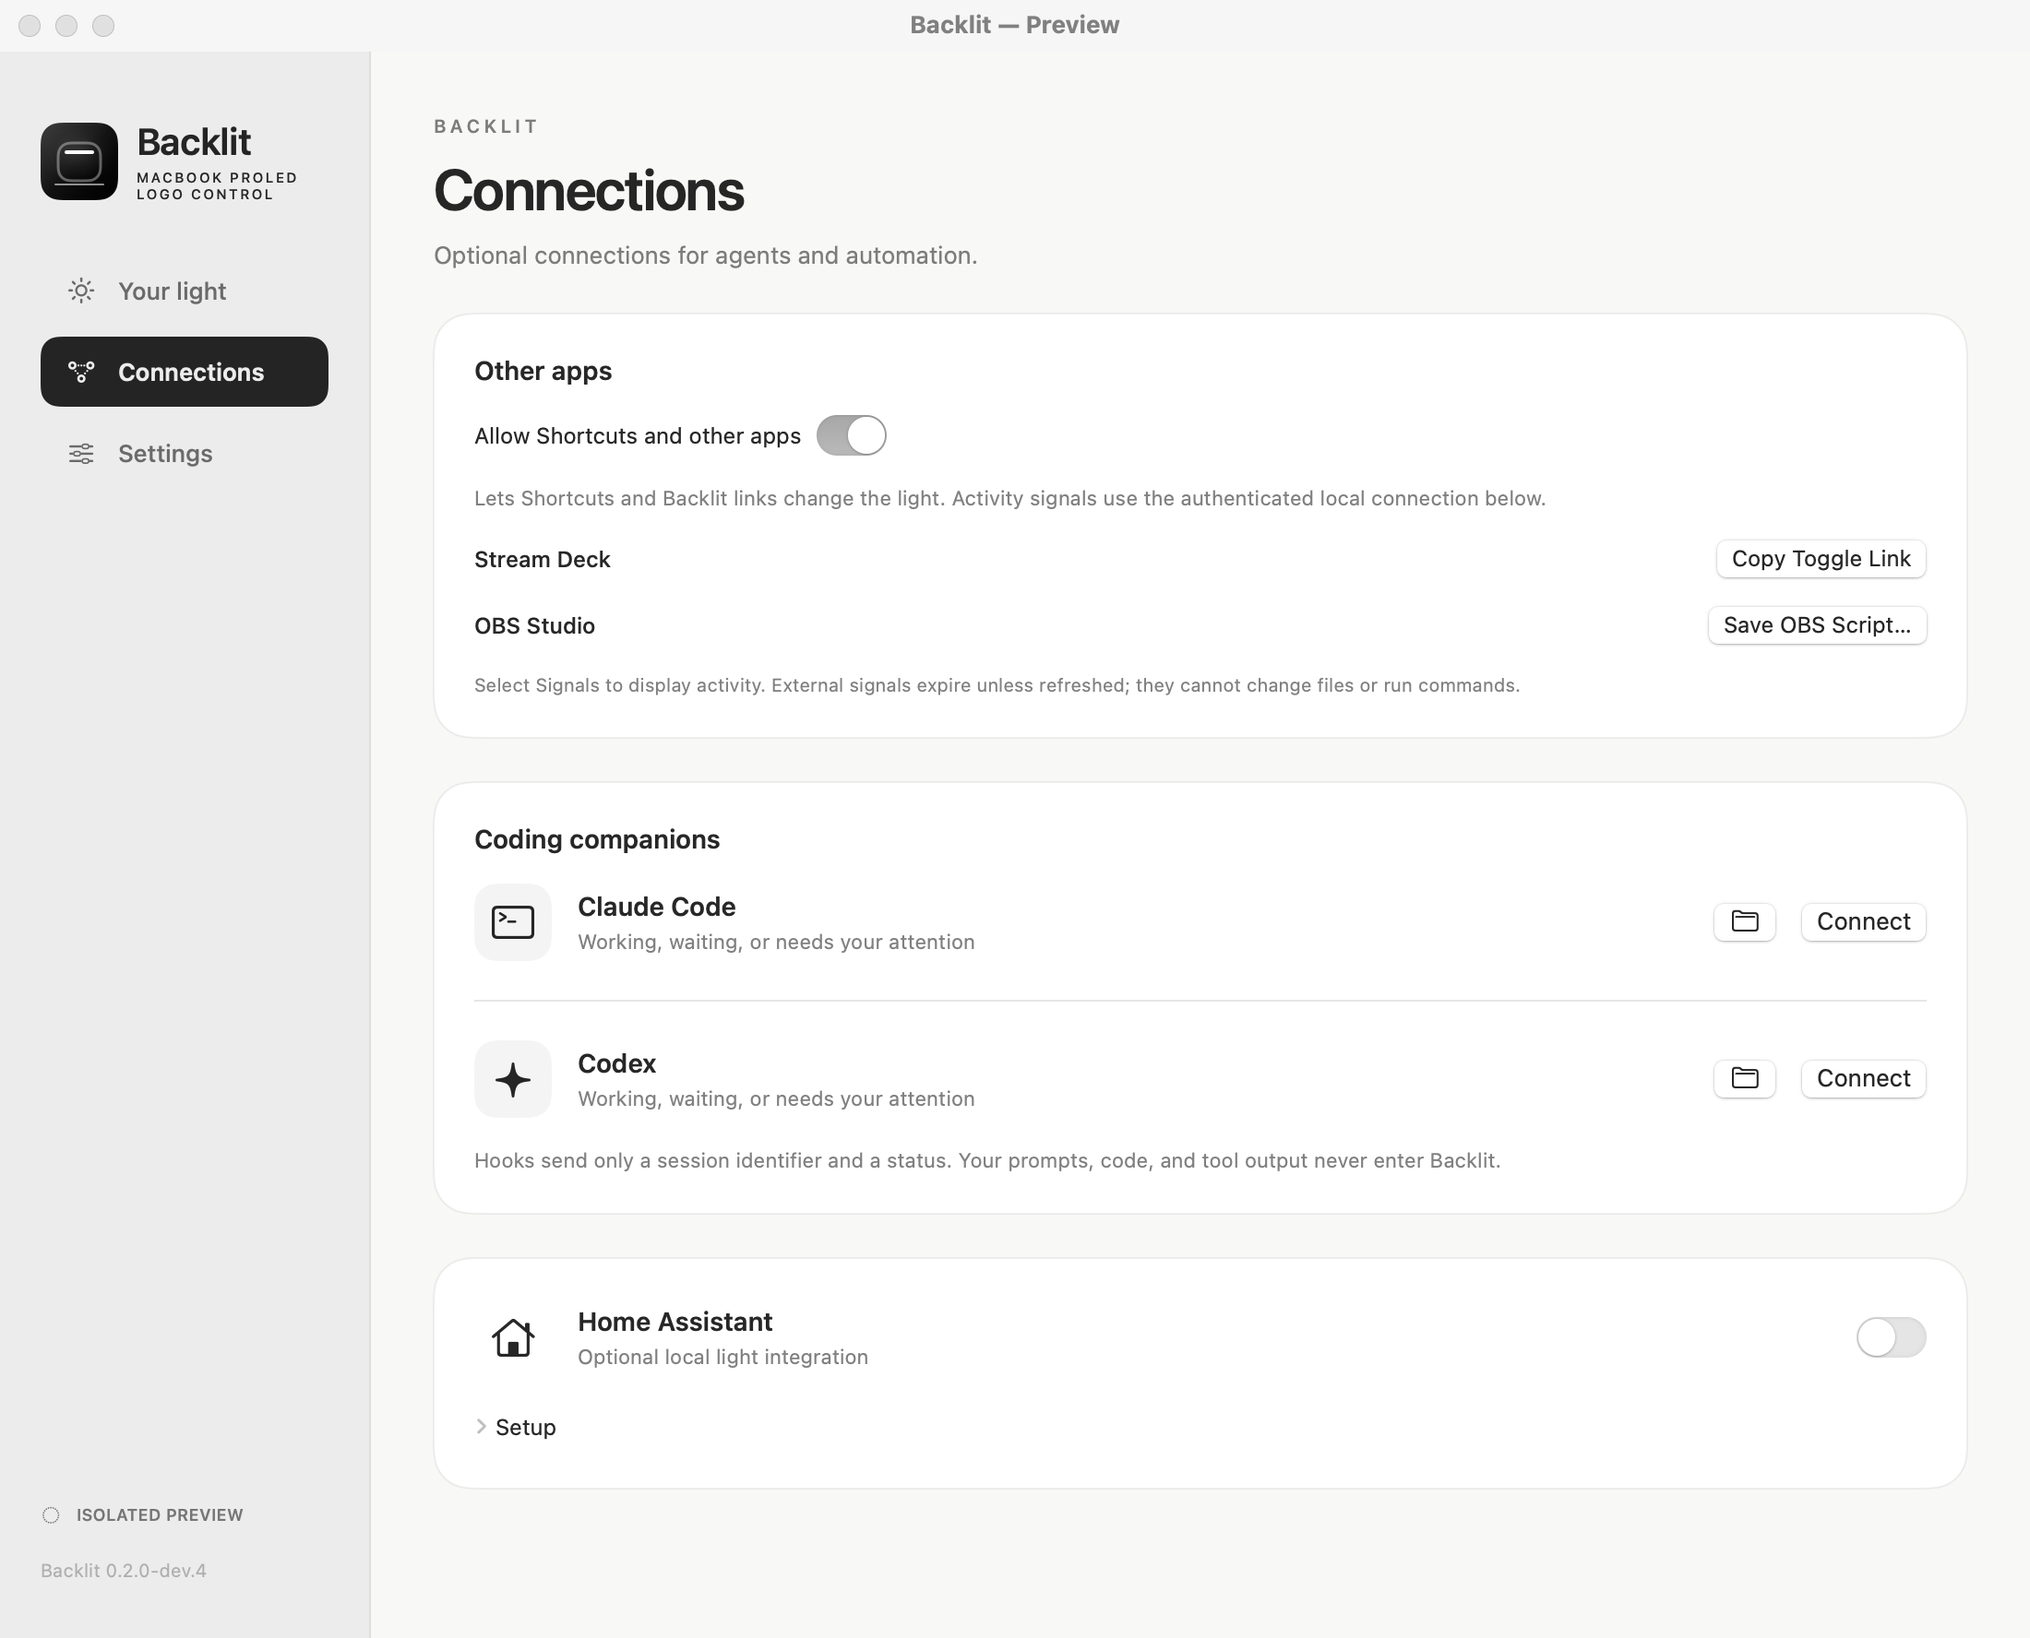
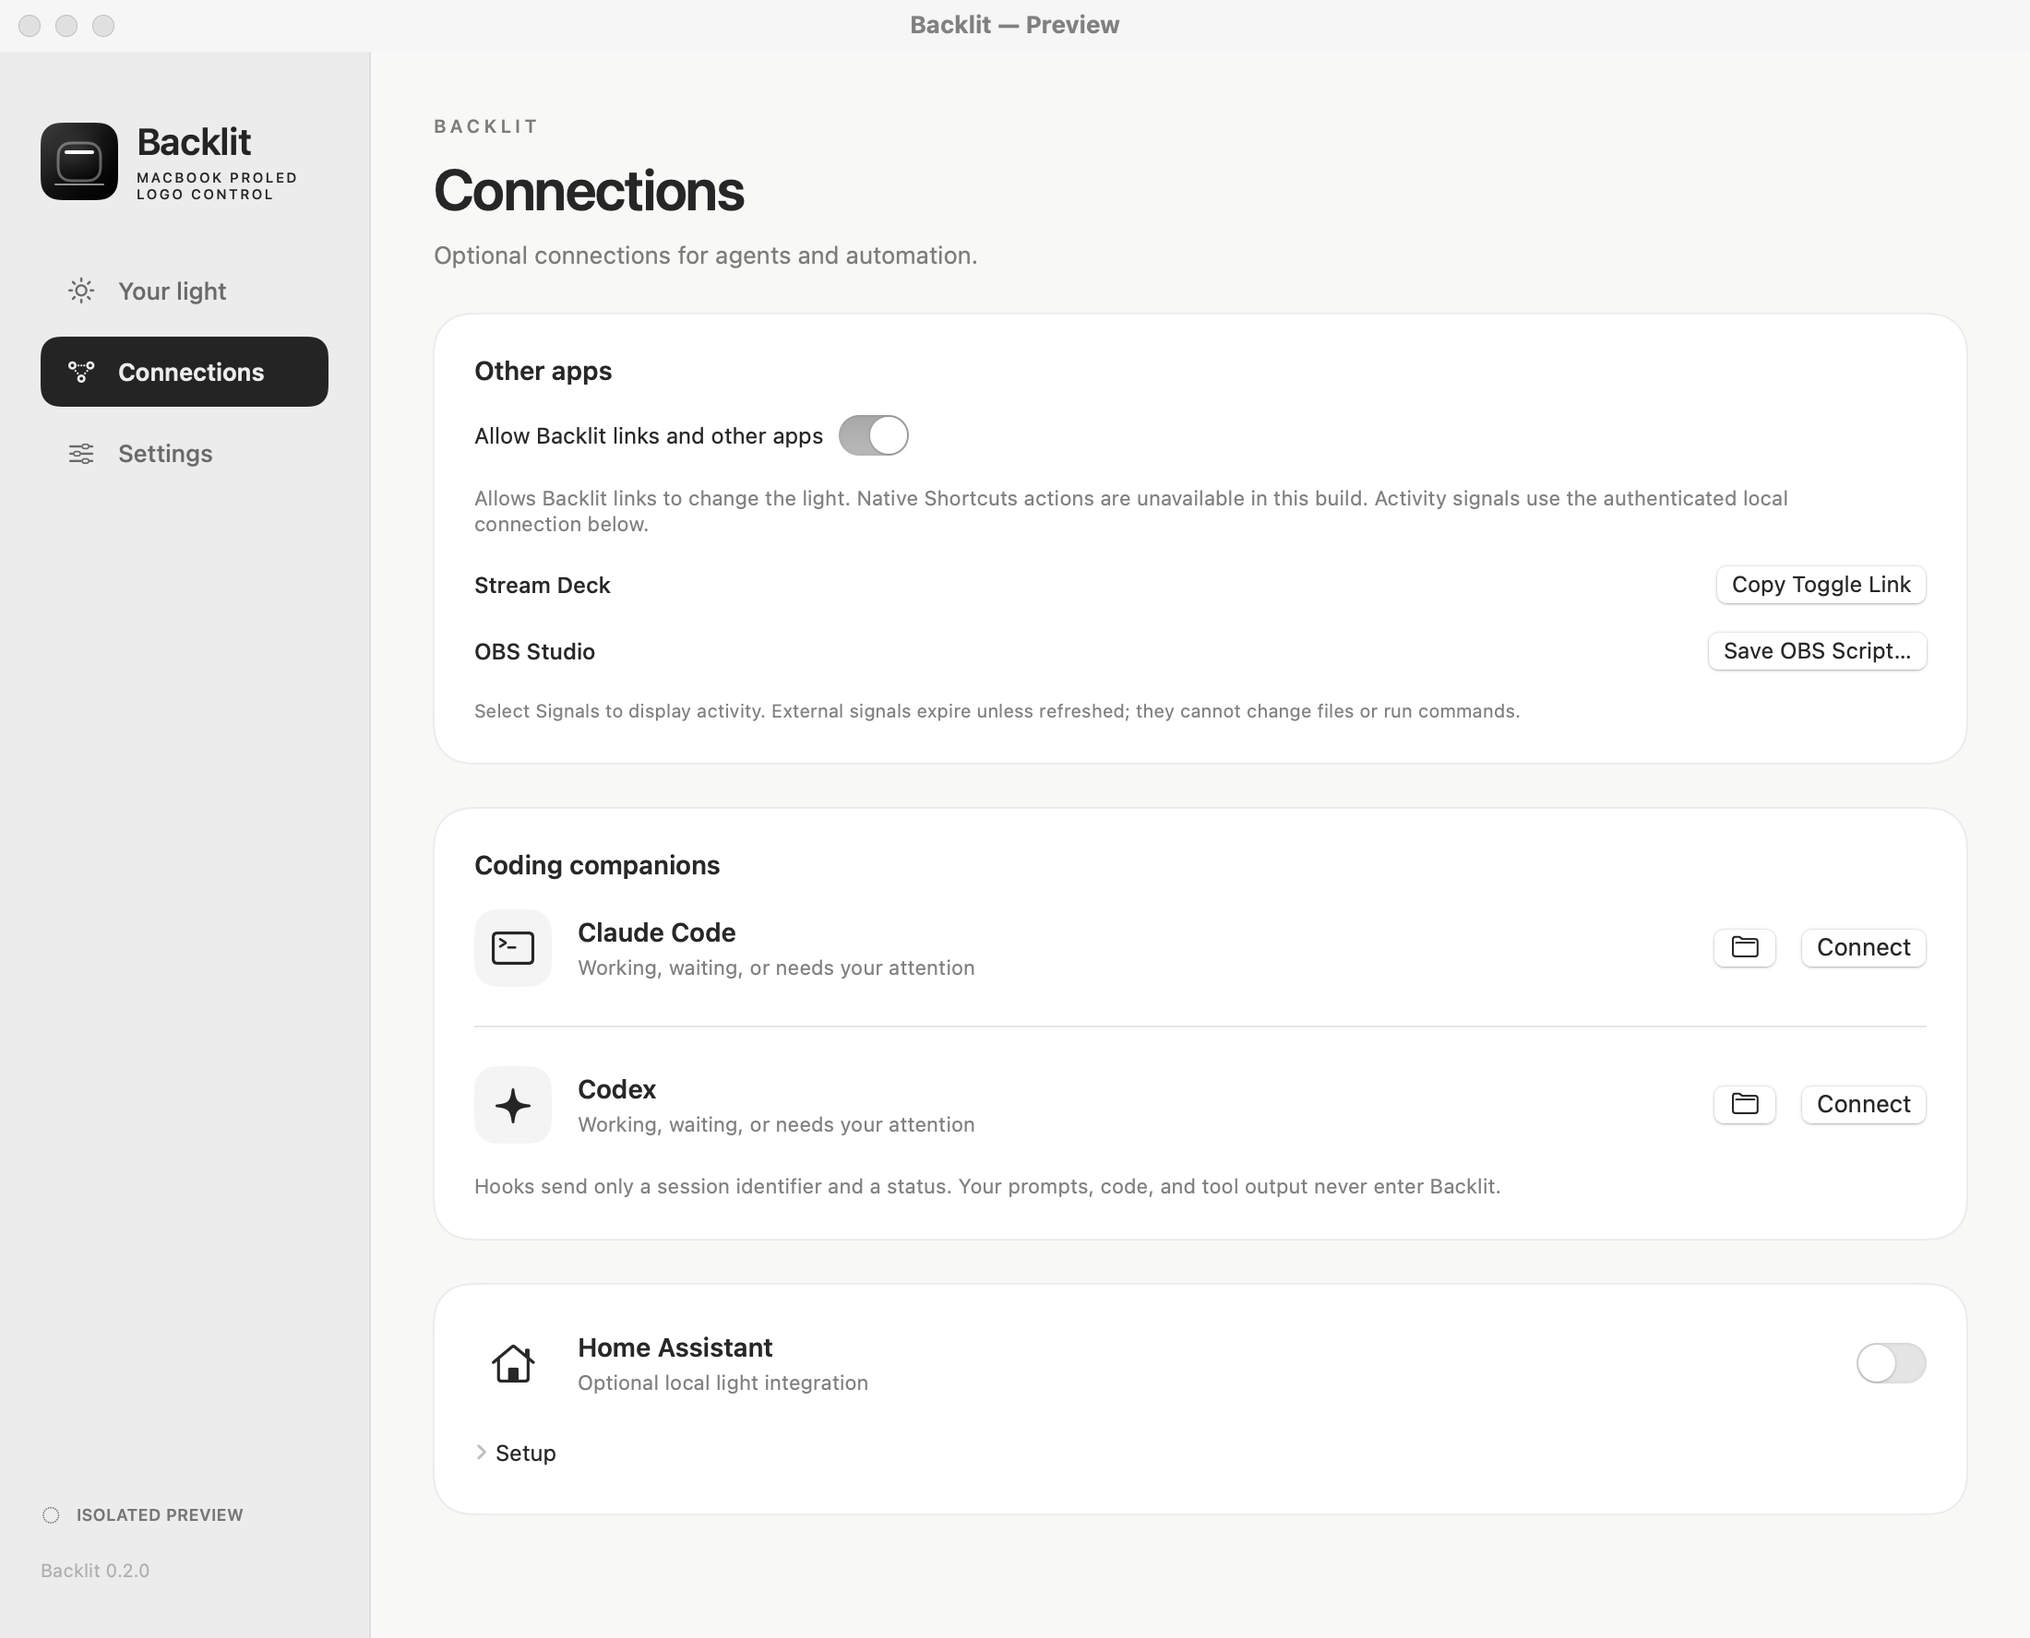
Release Backlit 0.2.0 with refreshed native screenshots

diff --git a/Sources/Backlit/FeatureControls.swift b/Sources/Backlit/FeatureControls.swift
@@ -47,8 +47,8 @@ struct AutomationConnections: View {
     @ObservedObject var model: AppModel
     var body: some View {
         Surface("Other apps") {
-            Toggle("Allow Shortcuts and other apps", isOn: $model.automationsEnabled).toggleStyle(.switch)
-            Text("Lets Shortcuts and Backlit links change the light. Activity signals use the authenticated local connection below.").font(.system(size: 11)).foregroundStyle(.secondary)
+            Toggle("Allow Backlit links and other apps", isOn: $model.automationsEnabled).toggleStyle(.switch)
+            Text("Allows Backlit links to change the light. Native Shortcuts actions are unavailable in this build. Activity signals use the authenticated local connection below.").font(.system(size: 11)).foregroundStyle(.secondary)
             if model.automationsEnabled {
                 HStack {
                     Text("Stream Deck").fontWeight(.medium)

diff --git a/README.md b/README.md
@@ -1,10 +1,8 @@
-Development checkout: **0.2.0-dev.4** (local testing build). Public downloads below remain the published release.
-
 <p align="center"><img src="docs/media/icon.png" width="96" alt="Backlit icon"></p>
 <h1 align="center">Backlit</h1>
 <p align="center">MacBook PROLED logo light control for macOS.</p>
 <p align="center">
-<img src="https://img.shields.io/badge/source-0.2.0--dev.4-9a7400?style=flat" alt="Source 0.2.0-dev.4">
+<img src="https://img.shields.io/badge/source-0.2.0-9a7400?style=flat" alt="Source 0.2.0">
 <img src="https://img.shields.io/badge/local_tests-226_passing-2d6085?style=flat" alt="226 local tests passing">
 <img src="https://img.shields.io/badge/local_build-verified-55565f?style=flat" alt="Local build verified">
 <img src="https://img.shields.io/badge/macOS-14.0_target-55565f?style=flat" alt="macOS 14.0 target">
@@ -58,7 +56,7 @@ Launch connects compatible hardware automatically. Quit restores the previous lo
 
 Claude Code and Codex have separate, reversible status hooks. Existing hooks are preserved. They send a session identifier and status—not prompts, code, or tool output. Codex requires hook review/trust in its settings. Codex live-session compatibility remains unverified.
 
-Opt-in local automation links, a separately packaged Stream Deck plugin, and an OBS script are included. Activity signals cover build, export, backup, focus, recording, and streaming. They are experimental: real Stream Deck/OBS operation and native Shortcuts discovery have not passed acceptance testing. The five native Shortcuts actions are not discoverable in the current ad-hoc signing setup; extracted metadata alone does not establish availability.
+Opt-in local automation links, a separately packaged Stream Deck plugin, and an OBS script are included. Activity signals cover build, export, backup, focus, recording, and streaming. Stream Deck and OBS are experimental; real key/profile and recording/streaming acceptance remain unverified. Native Shortcuts actions are unavailable in this ad-hoc signed build. Extracted action metadata does not establish discovery.
 
 <details>
 <summary>Other apps screenshot</summary>
@@ -88,7 +86,7 @@ An optional [Home Assistant integration](docs/HOME-ASSISTANT.md) exposes a light
 
 ## Install
 
-Download the Apple silicon ZIP or DMG from [Releases](https://github.com/t0nyz0/Backlit/releases). Quit any running Backlit, then put the new app in **Applications**. This early release is **ad-hoc signed, not Developer ID signed or notarized**.
+Download the Apple silicon ZIP or DMG from [Releases](https://github.com/t0nyz0/Backlit/releases). Quit any running Backlit, then put the new app in **Applications**. Backlit 0.2.0 is **ad-hoc signed, not Developer ID signed or notarized**.
 
 A physically illuminated, independently controlled logo is required. The macOS 14 deployment target is not a claim that every older Mac/OS is supported. Unsupported hardware can use preview mode.
 
@@ -98,7 +96,7 @@ Optional login launch, closed-lid operation, and an administrator-authorized bri
 
 ## Updates
 
-The in-app updater uses Sparkle, but is **disabled in this development build** because a publisher trust key and signed feed have not been provisioned. It does not fall back to installing unsigned GitHub downloads. Existing published versions need a trusted manual installation to acquire the updater and its public trust key. Authentic update installation, interruption recovery, and rollback have not been tested end to end. Same-source SHA-256 checksums detect changed bytes; they do not prove publisher identity.
+Download updates from [GitHub Releases](https://github.com/t0nyz0/Backlit/releases) and replace the app manually. In-app updates are **disabled in 0.2.0** because a publisher trust key and signed feed have not been provisioned. There is no fallback to unsigned downloads. SHA-256 checksums detect changed bytes; they do not prove publisher identity. See [validation](docs/VALIDATION.md) for the updater test scope.
 
 ## Build
 
@@ -116,7 +114,7 @@ The local installer gracefully quits, replaces, and reopens `/Applications/Backl
 open -n dist/Backlit.app --args --preview
 ```
 
-The [GitHub Actions workflow](https://github.com/t0nyz0/Backlit/actions) defines tests, privacy/secret checks, and an optimized build. **This development candidate has been checked locally; its exact commit has not run in remote CI.** The release workflow packages ZIP, DMG, clean source, build metadata, and SHA-256 checksums when an authorized version tag is published. [Contributing](CONTRIBUTING.md) covers packaging and Home Assistant tests.
+The [GitHub Actions workflow](https://github.com/t0nyz0/Backlit/actions) runs tests, privacy/secret checks, and an optimized build. Release publication requires that workflow to pass for the exact version tag. It packages ZIP, DMG, clean source, the separate Stream Deck add-on, build metadata, and SHA-256 checksums. Check the tagged workflow run for its commit and results. [Contributing](CONTRIBUTING.md) covers packaging and Home Assistant tests.
 
 [Privacy](docs/PRIVACY.md) · [Validation](docs/VALIDATION.md) · [Security](SECURITY.md) · [Attribution](docs/ATTRIBUTION.md)
 

diff --git a/docs/VALIDATION.md b/docs/VALIDATION.md
@@ -1,6 +1,6 @@
 # Backlit validation
 
-Candidate: **0.2.0-dev.4**, build 24. Local development build; not published. The exact candidate has not run in remote GitHub Actions. Artifact source identity and signing status are recorded in BUILD-INFO.json; SHA256SUMS.txt covers package bytes.
+Version: **0.2.0**, build 25. Publication requires a passing [Build and package workflow](https://github.com/t0nyz0/Backlit/actions) for the exact `v0.2.0` tag. Check that run for its commit and results. BUILD-INFO.json records artifact source identity and signing status; SHA256SUMS.txt covers package bytes.
 
 ## Executed local checks
 
@@ -9,7 +9,7 @@ Candidate: **0.2.0-dev.4**, build 24. Local development build; not published. Th
 - 14 Stream Deck tests cover command/settings validation, bounded ordering and failure recovery, inspector context/persistence, and package freshness. Typecheck/schema/license checks and dependency audit also pass locally.
 - Optimized arm64 build, five-action AppIntents metadata extraction, nested framework/helper code-signature verification, source exclusions, artifact hashes/ZIP CRCs/DMG, documentation/media integrity and privacy/secret scans are checked locally.
 
-Battery tests use saved manual levels of 0%, 25%, 50%, and other values; every unplugged percentage including zero is tested. Default/migrated preferences, active/full/paused/unplugged transitions, optional styles/cues, mode switching and preserved manual settings are covered. The original multiplier-based expectation was wrong and has been replaced. Native UI review must confirm the workspace and menu show output without a Battery manual slider.
+Battery tests use saved manual levels of 0%, 25%, 50%, and other values; every unplugged percentage including zero is tested. Default/migrated preferences, active/full/paused/unplugged transitions, optional styles/cues, mode switching and preserved manual settings are covered. The corrected tests exercise the production model, rather than treating a manual-brightness multiplier as the expected result. Native captures show the workspace and menu output without a Battery manual slider.
 
 Battery pulse-floor tests cover arbitrary 20 Hz phases, delayed timestamps and cycle crossing. The floor is delivered on the next available frame and the pulse restarts smoothly; this cannot make a stalled process produce timely physical frames. Explicit zero writes bypass near-zero coalescing. Optical darkness and timing still need device observation. Menu visibility preference, repeated item lifecycles and asynchronous closed-lid cleanup/recovery are covered by isolated fixtures.
 
@@ -24,7 +24,7 @@ Screenshots are captured from current native views in isolated preview; they ill
 | Battery | Automated/model tests do not establish natural full-charge optical behavior on every device. Hardware reads and preview values are not optical measurements. |
 | Music | Playback devices, protected audio, perceived latency and sustained whole-app resource use still need live acceptance. No performance guarantee. |
 | Typing | Input Monitoring, Secure Input, sleep/lock/user-switch handling need live acceptance. No permission bypass. |
-| Shortcuts | Five actions extract, but native discovery is blocked in the ad-hoc signing setup. Metadata extraction is not a discovery pass. |
+| Shortcuts | Native actions are unavailable in this ad-hoc signed build. Five actions extract as metadata, which is not a discovery pass. |
 | Stream Deck / OBS | Fixture/plugin packaging tests pass; actual key/profile, OBS script and recording/streaming operation remain unverified. |
 | Home Assistant / agents | Local fixtures pass; existing installation/LAN policy and live Codex compatibility remain separate checks. |
 | Updater | Trust key/feed missing, so disabled. A disposable two-version host passed a signed upgrade/relaunch and rejected a modified signed feed. Its routes used fixture-only localhost overrides and synthetic restoration. Production transport/signing, resumed/interrupted updates, cancellation acknowledgement and failure rollback/relaunch remain unverified. |

diff --git a/docs/RELEASE.md b/docs/RELEASE.md
@@ -1,9 +1,11 @@
-Backlit 0.2.0 development candidate for MacBook PROLED. Not a published release.
+Backlit 0.2.0 (build 25) for MacBook PROLED.
 
-Battery mode ignores saved manual brightness: the default pulses only during active charging, stays solid when charging pauses or finishes, and exactly matches battery percentage when unplugged. The window and menu show battery-driven output; manual brightness is retained for other modes. Battery customization and optional charge-ready cues remain available.
+Battery mode now follows the battery percentage exactly when unplugged, independently of saved manual brightness. The default pulses only during active charging and stays solid when charging pauses or finishes. Pulse speed, the “Dim to” minimum, optional plugged-in styles and charge-ready cues are configurable. The workspace and menu label battery-driven output; other modes retain manual brightness.
 
-Also includes the output-scaled status marker, Music response controls, optional timing-only typing response, activity signals/Focus, local automation links, and experimental Stream Deck/OBS integrations. Native Shortcuts discovery and live external integration acceptance remain unverified. See [validation](VALIDATION.md).
+This release also includes square lid previews, a hideable menu bar icon with Dock/Applications recovery, Music response presets and automatic level adjustment, optional timing-only typing response, Signals/Focus, and local automation links. Stream Deck and OBS integrations are experimental. Native Shortcuts actions are unavailable in this ad-hoc signed build.
 
-Sparkle is integrated but disabled pending trusted key/feed provisioning. Actual authenticated update/install/recovery/rollback is not established by unit tests. The app is ad-hoc signed, not Developer ID signed or notarized. No remote CI has run for this exact development candidate.
+Download the Apple silicon ZIP or DMG and replace the app manually. The app is ad-hoc signed, not Developer ID signed or notarized. In-app updates remain disabled because no production publisher key or signed feed is provisioned. A disposable signed update fixture passed installation/relaunch and rejected a modified feed; that does not establish production updater trust, resumed/cancelled installation, interruption recovery or rollback.
 
-Local packages include arm64 ZIP/DMG, allowlisted source without Git history/private planning, separate Stream Deck add-on, build metadata and hashes. Package hashes alone do not authenticate the publisher.
+Assets include the app ZIP/DMG, source archive, separate Stream Deck add-on, BUILD-INFO.json and SHA256SUMS.txt. Build metadata records the exact source commit. Checksums detect changed bytes; they do not authenticate the publisher. Release publication requires passing CI for the exact version tag.
+
+See [validation and known limits](https://github.com/t0nyz0/Backlit/blob/v0.2.0/docs/VALIDATION.md), [installation](https://github.com/t0nyz0/Backlit/blob/v0.2.0/README.md#install) and [privacy](https://github.com/t0nyz0/Backlit/blob/v0.2.0/docs/PRIVACY.md).

diff --git a/docs/media/README.md b/docs/media/README.md
@@ -1,6 +1,6 @@
 # Backlit native media
 
-Workspace, Connections, Settings and menu views were recaptured for **0.2.0-dev.4 (24)**. Battery shows the 82% unplugged preview fixture with no manual brightness slider. The existing original icon artwork is unchanged.
+Workspace, Connections, Settings and menu views were recaptured for **0.2.0 (25)**. Battery shows the 82% unplugged preview fixture with no manual brightness slider. The existing original icon artwork is unchanged.
 
 These are real native SwiftUI/AppKit views captured from the running Backlit executable using an owned-window capture path. They are not image-generated app mockups or borrowed screenshots.
 
